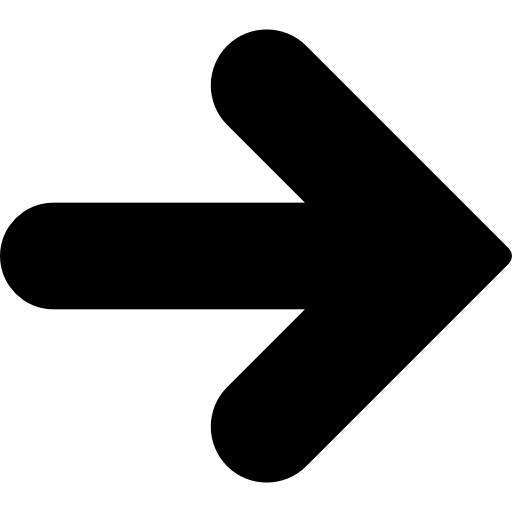
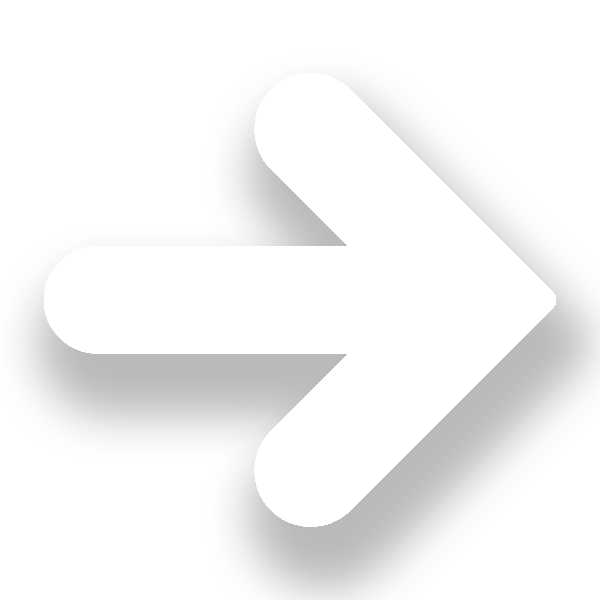
Projects stuff and small details

diff --git a/styles.css b/styles.css
@@ -26,7 +26,7 @@ body {
 
 
 .glass {
-    background: rgba(255,255,255,0.2);
+    background: rgba(255,255,255,0.15);
     box-shadow: 0 8px 32px 0 rgba(129, 129, 124, 0.4);
     backdrop-filter: blur(8px);
     -webkit-backdrop-filter: blur(8px);
@@ -125,6 +125,42 @@ body {
     margin: 2vh;
 }
 
+.button {
+    position: absolute;
+    top: calc(50vh + 2vw);
+    left: calc(35vw + 2vw);
+
+    width: 4vw;
+    height: 4vw;
+    border-radius: 50%;
+    transform: translate(-50%, -50%);
+
+    transition: width .2s ease, height .2s ease;
+
+    display: flex;
+    justify-content: center;
+    align-items: center;
+
+    cursor: pointer;
+}
+
+.button:hover {
+    width: 4.6vw;
+    height: 4.6vw;
+}
+
+.button img {
+    width: 2vw;
+    height: 2vw;
+
+    transition: width .2s ease, height .2s ease;
+}
+
+.button:hover img {
+    width: 2.3vw;
+    height: 2.3vw;
+}
+
 .projects {
     perspective: 8000px;
     text-align: center;
@@ -144,7 +180,8 @@ body {
     align-items: center;
 
     transform-origin: -30vw;
-    animation: swivel 1.5s ease infinite alternate;
+    transition: transform 1.5s ease;
+    /*animation: swivel 1.5s ease infinite alternate;*/
 }
 
 @keyframes swivel {
@@ -162,12 +199,25 @@ body {
 
     border: 7px solid white;
     border-radius: 10px;
-
     box-shadow: 5px 7px 5px 1px rgba(0,0,0,0.3);
+
+    transition: transform .5s ease;
+
+    cursor: pointer;
 }
 
 .project p {
-    margin-top: 2vh;
+    text-align: left;
+    margin: 3vh;
+    font-size: 20px;
+}
+
+#website {
+    transform: rotate3D(0, 1, 0, 0deg)
+}
+
+#uweast {
+    transform: rotate3D(0, 1, 0, -90deg)
 }
 
 .resume-box {
@@ -189,6 +239,8 @@ body {
 
     border-radius: 0.5%;
     box-shadow: 0 10px 10px 5px rgba(0,0,0,0.4);
+    
+    cursor: pointer;
 }
 
 #download {
@@ -225,12 +277,16 @@ body {
     font-weight: 100;
 }
 
-.contact img {
+.contact #me {
     height: 20vw;
     width: 20vw;
 
     object-fit: cover;
     border-radius: 50%;
+
+    transition: transform .3s linear;
+
+    cursor: pointer;
 }
 
 .icons {
@@ -322,4 +378,26 @@ body {
 @keyframes bob {
     from {transform: translateY(0%);}
     to {transform: translateY(10%);}
+}
+
+#gottem {
+    position: absolute;
+
+    object-fit: cover;
+    border-radius: 50%;
+    width: 20vw;
+    height: 20vw;
+
+    transition: transform .3s linear;
+    transform: rotateY(90deg);
+
+    cursor: pointer;
+}
+
+.person {
+    position: fixed;
+    bottom: 1%;
+    left: 1%;
+
+    height: 75px;
 }

diff --git a/index.html b/index.html
@@ -34,17 +34,17 @@
         </div>
         <div class="info projects">
             <div class="button glass">
-                <img src="">
+                <img src="assets/right-arrow.png">
             </div>
             <div class="project glass" id="website">
                 <h1>This Website</h1>
                 <img src="assets/website.png">
-                <p>The page you are currently viewing</p>
+                <p>The page you are currently viewing, a.k.a my personal website. A project I worked on for fun the weekend of April 25th, 2021 to avoid having to read severals hours of text I had been avoiding all weekend.<br><br>Built in raw HTML, CSS, and JS. Just the way I like it.</p>
             </div>
             <div class="project glass" id="uweast">
                 <h1>UWEAST</h1>
-                <img src="assets/website.png">
-                <p>The page you are currently viewing</p>
+                <img src="assets/uweast.png">
+                <p>As a member of UCSD's Triton Software Engineering, I took part in creating an catering e-commerce webpage for a local non-profit organization, United Women of East Africa Support Team (UWEAST). My work mostly comprised front-end development in React.</p>
             </div>
         </div>
         <div class="info resume">
@@ -55,7 +55,8 @@
         </div>
         <div class="info contact">
             <h1>Wanna get in touch?</h1>
-            <img src="assets/headshot.jpg">
+            <img src="assets/headshot.jpg" id="me">
+            <img src="assets/gottem.jpg" id="gottem">
             <div class="icons">
                 <div class="icon-box">
                     <a href="mailto:ajkirk1115@gmail.com" target="_blank">
@@ -88,8 +89,10 @@
             </li>
         </ul>
     </div> 
+    <img class="person" src="assets/person.png">
    <script src="circles.js"></script>
 </body>
 <script src="index.js"></script>
 <script src="projects.js"></script>
+<script src="gottem.js"></script>
 </html>

diff --git a/projects.js b/projects.js
@@ -1,3 +1,50 @@
 const website = document.querySelector("#website");
 const uweast = document.querySelector("#uweast");
+const websiteImg = document.querySelector("#website img");
+const uweastImg = document.querySelector("#uweast img");
+const button = document.querySelector(".button");
+const btnImg = document.querySelector(".button img");
 
+const projs = [website, uweast];
+const projImg = [websiteImg, uweastImg];
+var currentProj = 0;
+var clicked = false;
+
+button.addEventListener("click", (e) => {
+    if(hasClicked) return;
+    if(clicked) return;
+
+    var nextProj = (currentProj + 1)%projs.length;
+    console.log(nextProj);
+
+    projs[currentProj].style.zIndex= "1";
+    projs[nextProj].style.zIndex= "2";
+    projs[currentProj].style.transition = "transform 1.5s ease";
+    projs[nextProj].style.transition = "transform 1.5s ease";
+    projs[currentProj].style.transform = `rotate3D(0, 1, 0, 90deg)`;
+    projs[nextProj].style.transform = `rotate3D(0, 1, 0, 0deg)`;
+    clicked = true;
+
+    setTimeout(() => {
+
+        projs[currentProj].style.transition = "transform 0s ease";
+        projs[currentProj].style.transform = "rotate3D(0,1,0,-90deg)";
+        //projs[currentProj].style.transition = "transform 1.5s ease";
+        currentProj = nextProj;
+        clicked = false;
+    }, 1500);
+});
+
+projImg.forEach((im) => {
+    im.addEventListener("click", (e) => {
+        if(hasClicked) {
+            hasClicked = false;
+
+            e.target.style.transform = `scale(1)`;
+
+        } else {
+            hasClicked = true;
+            e.target.style.transform = `scale(2)`;
+        }
+    });
+});

diff --git a/gottem.js b/gottem.js
@@ -1,0 +1,27 @@
+const gottem = document.querySelector("#gottem");
+const me = document.querySelector("#me");
+
+var toggledContact = false;
+
+me.addEventListener("click", (e) => {
+    if(toggledContact) return;
+    toggledContact = true;
+
+    me.style.transform = "rotateY(90deg)";
+
+    setTimeout(() => {
+        gottem.style.transform = "rotateY(180deg)";
+    }, 300);
+});
+
+gottem.addEventListener("click", (e) => {
+    console.log("yeet");
+    if(!toggledContact) return;
+    toggledContact = false;
+
+    gottem.style.transform = "rotateY(90deg)";
+
+    setTimeout(() => {
+        me.style.transform = "rotateY(180deg)";
+    }, 300);
+})
